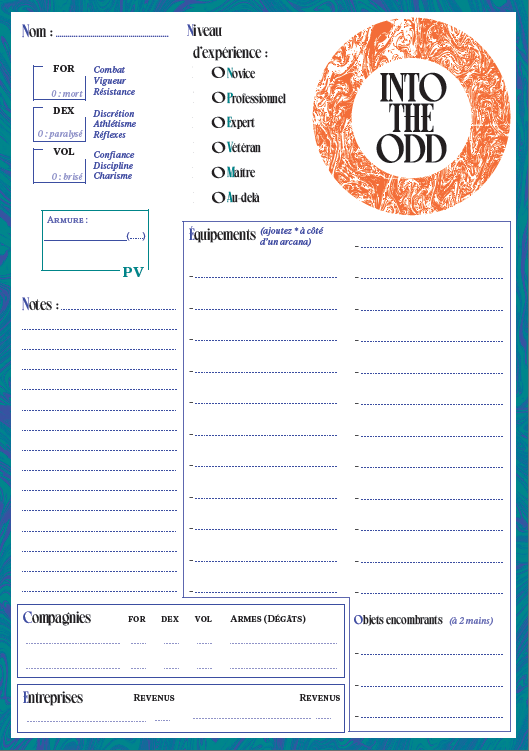
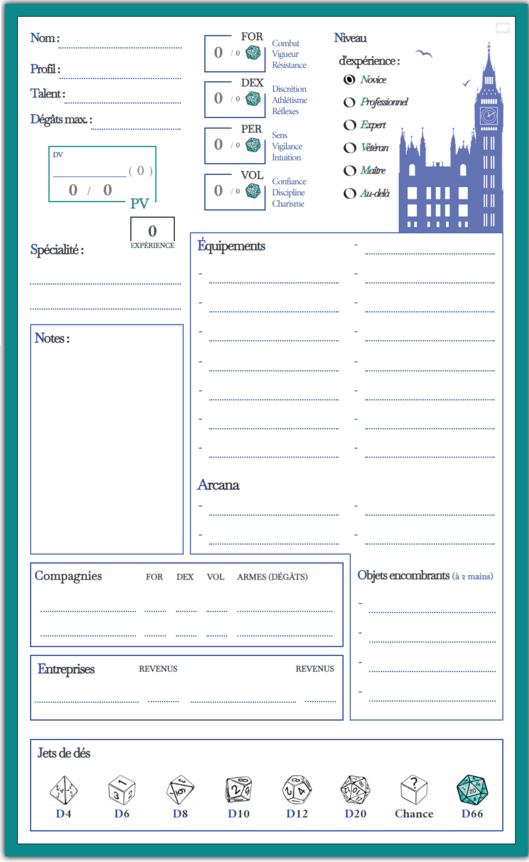
merge

diff --git a/Into the Odd v2/into_the_odd_v2.css b/Into the Odd v2/into_the_odd_v2.css
@@ -41,7 +41,7 @@ div.depart {
 }
 
 div.creation {
-    height: 440px;
+    height: 560px;
     padding: 15px;
 }
 
@@ -127,12 +127,12 @@ div.depart {
 }
 
 div.depart_image {
-    margin-top: 50px;
-    margin-left: 30px;
+    margin-top: 36px;
+    margin-left: 65px;
     grid-column: 1;
-    width: 300px;
+    width: 165px;
     height: 300px;
-    background-image: url(https://raw.githubusercontent.com/ctotone/JdR/main/Into%20the%20Odd%20v2/images/logo_v1.png);
+    background-image: url(https://raw.githubusercontent.com/ctotone/JdR/main/Into%20the%20Odd%20v2/images/logo_v2.png);
     background-size: cover;
 }
 
@@ -188,7 +188,7 @@ div.creation_titre {
 
 div.creation_fleche {
     grid-column: 2;
-	grid-row: 1/4;
+	grid-row: 1/5;
     width: 40px;
     height: 37px;
     background-image: url(https://raw.githubusercontent.com/ctotone/JdR/main/Into%20the%20Odd%20v2/images/fleche.png);
@@ -200,7 +200,7 @@ div.creation_fleche {
 
 div.creation_stat_info {
     grid-column: 1;
-	grid-row: 1/4;
+	grid-row: 1/5;
     font-size: 20px;
     font-family: var(--font_amiri);
     color: var(--noir);
@@ -228,9 +228,18 @@ div.creation_stat_dexterite_data {
     font-size: 20px;
 }
 
-div.creation_stat_volonte_data {
+div.creation_stat_perception_data {
     grid-column: 3;
 	grid-row: 3;
+    align-self: center;
+    color: var(--noir);
+    font-weight: bold;
+    font-size: 20px;
+}
+
+div.creation_stat_volonte_data {
+    grid-column: 3;
+	grid-row: 4;
     align-self: center;
     color: var(--noir);
     font-weight: bold;
@@ -249,22 +258,28 @@ div.creation_stat_dexterite {
     align-self: center;
 }
 
-div.creation_stat_volonte {
+div.creation_stat_perception {
     grid-column: 4;
 	grid-row: 3;
     align-self: center;
 }
 
+div.creation_stat_volonte {
+    grid-column: 4;
+	grid-row: 4;
+    align-self: center;
+}
+
 div.creation_stat_dice {
     grid-column: 5;
-	grid-row: 1/4;
+	grid-row: 1/5;
     align-self: center;
     text-align: center;
 }
 
 div.creation_pv_info {
     grid-column: 1;
-	grid-row: 1/4;
+	grid-row: 1/5;
     font-size: 20px;
     font-family: var(--font_amiri);
     color: var(--noir);
@@ -276,7 +291,7 @@ div.creation_pv_info {
 
 div.creation_pv_data {
     grid-column: 3;
-	grid-row: 1/4;
+	grid-row: 1/5;
     align-self: center;
     color: var(--noir);
     font-weight: bold;
@@ -285,20 +300,20 @@ div.creation_pv_data {
 
 div.creation_pv {
     grid-column: 4;
-	grid-row: 1/4;
+	grid-row: 1/5;
     align-self: center;
 }
 
 div.creation_pv_dice {
     grid-column: 5;
-	grid-row: 1/4;
+	grid-row: 1/5;
     align-self: center;
     text-align: center;
 }
 
 div.creation_equipement_info {
     grid-column: 1;
-	grid-row: 1/4;
+	grid-row: 1/5;
     font-size: 20px;
     font-family: var(--font_amiri);
     color: var(--noir);
@@ -310,7 +325,7 @@ div.creation_equipement_info {
 
 div.creation_final {
     grid-column: 3 / 6;
-	grid-row: 1/4;
+	grid-row: 1/5;
     align-self: center;
     text-align: center;
 }
@@ -385,7 +400,7 @@ div.cat_degat_max {
 div.cat_caracteristiques {
     grid-column: 2;
     grid-row: 1 / 10;
-    margin-left: 25px;
+    margin-left: 33px;
     margin-top: 10px;
 }    
 
@@ -397,7 +412,7 @@ div.cat_experience {
     font-family: var(--font_basker);
     letter-spacing: -1.5px;
     font-weight: bold;
-    margin-left: -40px;
+    margin-left: -33px;
 }
 
 div.cat_armure {
@@ -578,20 +593,23 @@ div.caracteristiques_data1 {
 	grid-column: 3;
 	grid-row: 1;
 	margin-top: 2px;
-    font-size: 14px;
+    font-size: 16px;
+    letter-spacing: -1px;
 }
 
 div.caracteristiques_data2 {
 	grid-column: 3;
 	grid-row: 2;
-    font-size: 14px;
+    font-size: 16px;
+    letter-spacing: -1px;
 }
 
 div.caracteristiques_data3 {
 	grid-column: 3;
 	grid-row: 3;
 	margin-top: -2px;
-    font-size: 14px;
+    font-size: 16px;
+    letter-spacing: -1px;
 }
 
 /* Structure expérience */
@@ -606,7 +624,7 @@ div.caracteristiques_data3 {
 div.xp_titre1 {
 	grid-column: 1/4;
 	font-size: 20px;
-	margin-left: 10px;
+	margin-left: 17px;
     font-family: var(--font_basker);
 }
 
@@ -628,6 +646,8 @@ div.xp_radio_texte {
 	margin-top: -4px;
 	margin-left: -15px;
 	font-style: italic;
+    font-size: 17px;
+    
 }
 
 /* Structure armure */

diff --git a/Into the Odd v2/into_the_odd_v2.html b/Into the Odd v2/into_the_odd_v2.html
@@ -553,6 +553,9 @@ d'introduction">r</span></button></div>
 			<div class="creation_stat_dexterite_data">
 				<span class="lettre">D</span>extérité
 			</div>
+			<div class="creation_stat_perception_data">
+				<span class="lettre">P</span>erception
+			</div>
 			<div class="creation_stat_volonte_data">
 				<span class="lettre">V</span>olonté
 			</div>
@@ -562,12 +565,16 @@ d'introduction">r</span></button></div>
 			<div class="creation_stat_dexterite">
 				<input type="number" class="input_creation" name="attr_dexterite" placeholder="0" min="0" max="20">
 			</div>
+			<div class="creation_stat_perception">
+				<input type="number" class="input_creation" name="attr_perception" placeholder="0" min="0" max="20">
+			</div>
 			<div class="creation_stat_volonte">
 				<input type="number" class="input_creation" name="attr_volonte" placeholder="0" min="0" max="20">
 			</div>
 			<div class="creation_stat_dice">
 				<button class="roll_d6_creation" type="roll" name="roll_Lancer" value="&{template:ito} {{title=Force}} {{subtitle=@{character_name}}} {{degats=oui}}{{result=[[3D6]]}}
 				&{template:ito} {{title=Dextérité}} {{subtitle=@{character_name}}} {{degats=oui}}{{result=[[3D6]]}}
+				&{template:ito} {{title=Perception}} {{subtitle=@{character_name}}} {{degats=oui}}{{result=[[3D6]]}}
 				&{template:ito} {{title=Volonté}} {{subtitle=@{character_name}}} {{degats=oui}}{{result=[[3D6]]}}" title="Lancer vos caractéristiques"></button>
 			</div>
 		</div>
@@ -801,17 +808,19 @@ console.log("Ajustement HP");
 
 <!-- Meilleur statistique -->
 <script type="text/worker">
-on("change:force change:dexterite change:volonte", function() {
+on("change:force change:dexterite change:volonte change:perception", function() {
 console.log("Meilleur statistique");
 
-    getAttrs(["force", "dexterite", "volonte"], function(values) {
+    getAttrs(["force", "dexterite", "volonte", "perception"], function(values) {
         let force = parseInt(values["force"]) || 0;
 		let dexterite = parseInt(values["dexterite"]) || 0;
 		let volonte = parseInt(values["volonte"]) || 0;
+		let perception = parseInt(values["perception"]) || 0;
 		
-			if (dexterite <= force && volonte <= force) stat_principale = force;
-			else if (force <= dexterite && volonte <= dexterite) stat_principale = dexterite;
-			else if (force <= volonte && dexterite <= volonte) stat_principale = volonte;
+			if (dexterite <= force && volonte <= force && perception <= force) stat_principale = force;
+			else if (force <= dexterite && volonte <= dexterite && perception <= dexterite) stat_principale = dexterite;
+			else if (force <= volonte && dexterite <= volonte && perception <= volonte) stat_principale = volonte;			
+			else if (force <= perception && dexterite <= perception && volonte <= perception) stat_principale = perception;
 			else stat_principale = "";
 			
 			setAttrs({
@@ -826,10 +835,11 @@ console.log("Meilleur statistique");
 on('clicked:creation_final', function() {
 console.log("creation_final");
 
-    getAttrs(["HP_base", "stat_principale", "force", "dexterite", "volonte"], function(values) {
+    getAttrs(["HP_base", "stat_principale", "force", "dexterite", "perception", "volonte", "xp_valeur"], function(values) {
          let HP_base = parseInt(values["HP_base"]) || 0;
 		 let force_max = parseInt(values["force"]) || 0;
 		 let dexterite_max = parseInt(values["dexterite"]) || 0;
+		 let perception_max = parseInt(values["perception"]) || 0;
 		 let volonte_max = parseInt(values["volonte"]) || 0;
 		 let stat_principale = parseInt(values["stat_principale"]) || 0;
 		 
@@ -1341,8 +1351,10 @@ console.log("creation_final");
 					arcana_1 = "";
 			
 		setAttrs({
+			"xp_valeur" : 0,
 			"force_max" : force_max,
 			"dexterite_max" : dexterite_max,
+			"perception_max" : perception_max,
 			"volonte_max" : volonte_max,
 			"page" : 1,
 			"HP_actuel" : HP_base,
